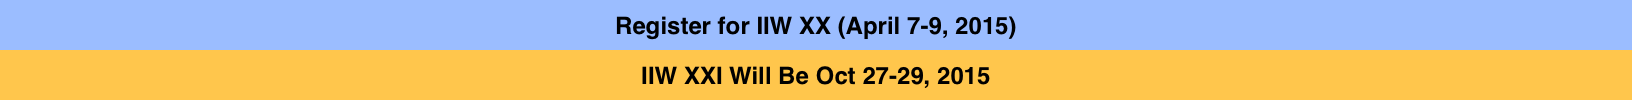
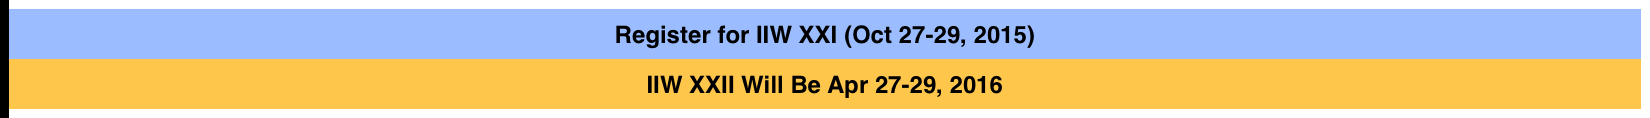
update for XXI launch

Changed region(s): [[0.0, 0.0, 1.0, 1.0], [0.375, 0.15, 0.625, 0.42], [0.375, 0.63, 0.625, 0.84]]

diff --git a/index.html b/index.html
@@ -34,7 +34,7 @@
 
             <div class="collapse navbar-collapse navbar-ex1-collapse">
                 <ul class="nav navbar-nav">
-                    <li><a href="https://www.eventbrite.com/e/internet-identity-workshop-xx-20-2015a-tickets-14097972415"><span style="color:#2795CC">Register</span></a>
+                    <li><a href="https://www.eventbrite.com/e/internet-identity-workshop-xxi-21-2015b-tickets-16995007525?utm_campaign=new_event_email&utm_medium=email&utm_source=eb_email&utm_term=viewmyevent_button"><span style="color:#2795CC">Register</span></a>
                     </li>
                     <li><a href="http://iiw.idcommons.net">IIW Wiki</a>
                     </li>
@@ -51,7 +51,7 @@
     <div class="full-width-image-1">
 
         <div class="logo-wrapper">
-           <a href="https://www.eventbrite.com/e/internet-identity-workshop-xx-20-2015a-tickets-14097972415">
+           <a href="https://www.eventbrite.com/e/internet-identity-workshop-xxi-21-2015b-tickets-16995007525?utm_campaign=new_event_email&utm_medium=email&utm_source=eb_email&utm_term=viewmyevent_button">
             <!-- <img class="img-responsive" src="img/iiw_logo_200x200.png" /> -->
             <img class="img-responsive" src="img/IIW_XX_logo_200x200.png" />
            </a>
@@ -60,7 +60,7 @@
     </div>
     <!-- /full-width-image-1 -->
 
-<a href="https://www.eventbrite.com/e/internet-identity-workshop-xx-20-2015a-tickets-14097972415">
+<a href="https://www.eventbrite.com/e/internet-identity-workshop-xxi-21-2015b-tickets-16995007525?utm_campaign=new_event_email&utm_medium=email&utm_source=eb_email&utm_term=viewmyevent_button">
     <div class="register-here">
 
         <!-- <div class="logo-wrapper"> -->
@@ -76,7 +76,7 @@
             <div class="col-lg-12 section">
                 <h1 class="section-heading">Internet Identity Workshop</h1>
 	        <p class="section-paragraph">The Internet Identity Workshop has been finding, probing and solving identity issues twice every year since 2005.  We meet in the Computer History Museum in Mountain View, CA. Every IIW moves topics, code and projects downfield.  Name an identity topic and it's likely that more substantial discussion and work has been done at IIW than any other conference!</p>
-	      <p class="lead-iiw section-lead"><a href="https://www.eventbrite.com/e/internet-identity-workshop-xx-20-2015a-tickets-14097972415">
+	      <p class="lead-iiw section-lead"><a href="https://www.eventbrite.com/e/internet-identity-workshop-xxi-21-2015b-tickets-16995007525?utm_campaign=new_event_email&utm_medium=email&utm_source=eb_email&utm_term=viewmyevent_button">
 More information on registering, venue, and hotels.</a>
 	      </p>
 
@@ -100,10 +100,6 @@ There’s many reasons for that extraordinary longevity. Here’s the top four:
 <li>Attending is exceptionally cost-effective, so IIW delivers a clear ROI.</li>
 </ol>
 
-<a id="wyb" name="wyb"></a>
-<p class="section-paragraph">
-If you'd like a special commemorative T-Shirt to celebrate, you can add one to <a href="https://www.eventbrite.com/e/internet-identity-workshop-xx-20-2015a-tickets-14097972415">your registration</a>.
-</p>
 
 <div class="arrowNav"><a href="#about" class="arrowDown">Next</a></div>
 <h1 class="section-heading">Why You Belong at IIW</h1>
@@ -150,7 +146,7 @@ IIW is at its heart a participatory conference. Through dozens of sessions, lunc
 
 	      	      <p class="section-paragraph">IIW is cheap, as conferences go. ROI is also maximized by absence of company-driven agendas. Corporate participation is by humble sponsors who like what IIW does for the world — and to supply free meals each day and an all-day espresso bar.</p>
 
-<p class="section-paragraph">IIW takes place over three days every Spring and Fall at the Computer History Museum in Mountain View. <a href="https://www.eventbrite.com/e/internet-identity-workshop-xx-20-2015a-tickets-14097972415">Register now</a> for IIW XX on April 7-9. And do it soon, because it's likely to fill up. </p>
+<p class="section-paragraph">IIW takes place over three days every Spring and Fall at the Computer History Museum in Mountain View. <a href="https://www.eventbrite.com/e/internet-identity-workshop-xxi-21-2015b-tickets-16995007525?utm_campaign=new_event_email&utm_medium=email&utm_source=eb_email&utm_term=viewmyevent_button">Register now</a> for IIW XX on April 7-9. And do it soon, because it's likely to fill up. </p>
 
             </div>
         </div>
